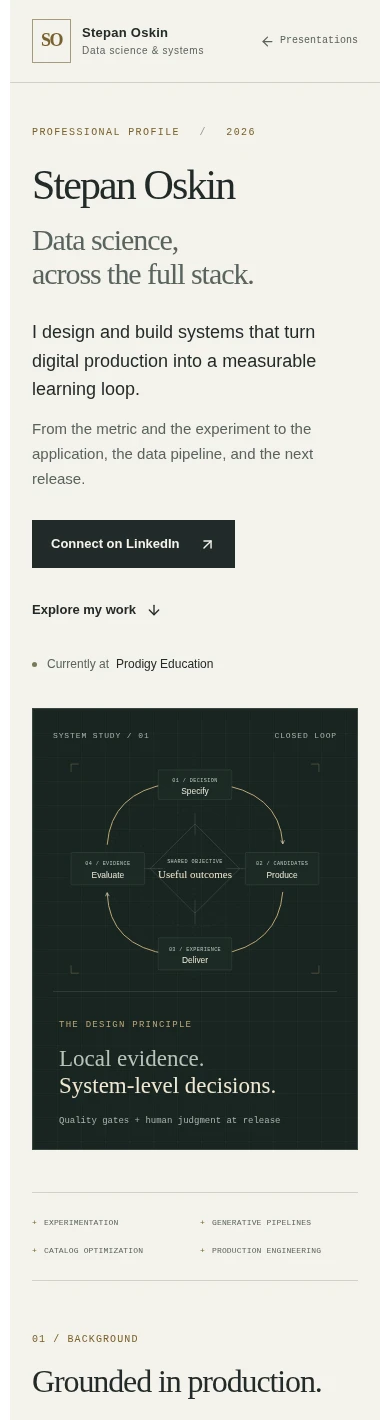
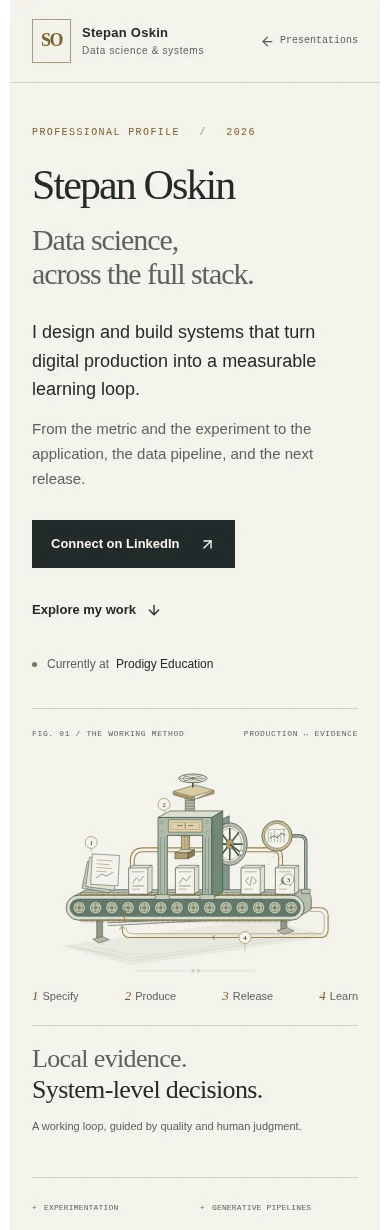
Replace profile flowchart with an engraved production illustration

diff --git a/apps/lab/components/production-systems/LoopBlueprint.tsx b/apps/lab/components/production-systems/LoopBlueprint.tsx
@@ -1,23 +1,149 @@
 import styles from "@/app/(stepanoskin)/stepanoskin/production-systems/profile.module.css";
 
+const ink = "#46574f";
+const paper = "#f4f2eb";
+const brass = "#9a8050";
+
+function CatalogLeaf({ x, y, variant = 0 }: { x: number; y: number; variant?: number }) {
+  return (
+    <g transform={`translate(${x} ${y})`}>
+      <path d="M0 0 8-5H43V43L35 48H0Z" fill="#deded0" stroke={ink} />
+      <path d="M0 0H35V48H0Z" fill={paper} stroke={ink} />
+      <path d="M35 0 43-5M35 48 43 43" fill="none" stroke={ink} />
+      <path d="M6 7H29M6 39H21" stroke={brass} />
+      {variant === 0 ? <path d="m7 29 7-11 6 6 8-10M7 33H28" fill="none" stroke={ink} /> :
+        variant === 1 ? <g fill="none" stroke={ink}><path d="m14 17-6 7 6 7m8-14 6 7-6 7M20 15 16 33" /></g> :
+          <g fill="#82988a" stroke={ink}><circle cx="18" cy="23" r="7" /><path d="M7 33 13 27M25 28 29 33" fill="none" /></g>}
+    </g>
+  );
+}
+
+function Bolt({ x, y }: { x: number; y: number }) {
+  return <g transform={`translate(${x} ${y})`}><circle r="2.2" fill={paper} stroke={ink} strokeWidth=".8" /><path d="m-1.2 1.2 2.4-2.4" stroke={ink} strokeWidth=".7" /></g>;
+}
+
 export default function LoopBlueprint() {
-  return <figure className={styles.blueprint} aria-labelledby="loop-caption">
-    <div className={styles.plateHeader}><span>System study / 01</span><span>Closed loop</span></div>
-    <svg className={styles.loopSvg} viewBox="0 0 440 380" role="img" aria-labelledby="loop-title loop-description">
-      <title id="loop-title">A production system with a feedback loop</title>
-      <desc id="loop-description">Specify, produce, deliver, and evaluate surround a shared objective. Evidence from use informs the next specification. Quality gates and human judgment govern release.</desc>
-      <defs><marker id="loop-arrow" viewBox="0 0 8 8" refX="6" refY="4" markerWidth="5" markerHeight="5" orient="auto-start-reverse"><path d="M1 1 7 4 1 7" fill="none" stroke="currentColor" /></marker></defs>
-      <g className={styles.guideLines} fill="none"><circle cx="220" cy="190" r="133" /><circle cx="220" cy="190" r="91" /><path d="M220 20V360M35 190H405" /></g>
-      <g className={styles.loopPaths} fill="none" markerEnd="url(#loop-arrow)"><path d="M249 58Q350 70 356 151" /><path d="M356 226Q349 309 257 323" /><path d="M181 323Q87 310 84 228" /><path d="M84 153Q90 72 181 58" /></g>
-      <g className={styles.centerLines} fill="none"><path d="M220 104V139M306 190H269M220 239V276M171 190H134" /><rect x="171" y="141" width="98" height="98" rx="2" transform="rotate(45 220 190)" /></g>
-      <text x="220" y="181" textAnchor="middle" className={styles.diagramSmall}>SHARED OBJECTIVE</text>
-      <text x="220" y="204" textAnchor="middle" className={styles.diagramCenter}>Useful outcomes</text>
-      <g className={styles.diagramNode}><rect x="163" y="37" width="114" height="46" rx="2" /><text x="220" y="56" textAnchor="middle" className={styles.diagramSmall}>01 / DECISION</text><text x="220" y="74" textAnchor="middle">Specify</text></g>
-      <g className={styles.diagramNode}><rect x="298" y="165" width="114" height="50" rx="2" /><text x="355" y="185" textAnchor="middle" className={styles.diagramSmall}>02 / CANDIDATES</text><text x="355" y="204" textAnchor="middle">Produce</text></g>
-      <g className={styles.diagramNode}><rect x="163" y="297" width="114" height="50" rx="2" /><text x="220" y="317" textAnchor="middle" className={styles.diagramSmall}>03 / EXPERIENCE</text><text x="220" y="336" textAnchor="middle">Deliver</text></g>
-      <g className={styles.diagramNode}><rect x="28" y="165" width="114" height="50" rx="2" /><text x="85" y="185" textAnchor="middle" className={styles.diagramSmall}>04 / EVIDENCE</text><text x="85" y="204" textAnchor="middle">Evaluate</text></g>
-      <g className={styles.diagramTick}><path d="M28 28h12M28 28v12M412 28h-12M412 28v12M28 352h12M28 352v-12M412 352h-12M412 352v-12" /></g>
-    </svg>
-    <figcaption id="loop-caption"><span className={styles.smallLabel}>The design principle</span><p>Local evidence.<br /><strong>System-level decisions.</strong></p><span className={styles.plateFootnote}>Quality gates + human judgment at release</span></figcaption>
-  </figure>;
+  return (
+    <figure className={styles.blueprint} aria-labelledby="loop-caption">
+      <div className={styles.plateHeader}><span>Fig. 01 / The working method</span><span>Production ↔ evidence</span></div>
+      <svg className={styles.loopSvg} viewBox="0 0 600 420" role="img" aria-labelledby="loop-title loop-description">
+        <title id="loop-title">An illustrated production and learning apparatus</title>
+        <desc id="loop-description">A printmaking-style machine carries individual content cards through production and review. An observation instrument records what happens after release; a brass return path carries that evidence back to the next specification. A conceptual metaphor, not a system architecture or a live result.</desc>
+        <defs>
+          <pattern id="profile-etch" width="5" height="5" patternUnits="userSpaceOnUse" patternTransform="rotate(30)"><path d="M0 0V5" stroke={ink} strokeWidth=".55" opacity=".3" /></pattern>
+          <pattern id="profile-rib" width="6" height="6" patternUnits="userSpaceOnUse"><path d="M1 0V6" stroke={ink} strokeWidth=".8" opacity=".5" /></pattern>
+        </defs>
+
+        {/* Ground and the rear return line establish a single, supported apparatus. */}
+        <path d="M52 351 183 387 553 333 421 302Z" fill="#e3e3d7" opacity=".65" />
+        <path d="M67 351 185 379 538 329M85 355 185 374 518 326M114 354 184 368" fill="none" stroke="#c3c8bb" strokeWidth=".7" />
+        <g fill="none" stroke={brass} strokeWidth="2">
+          <path d="M454 228V188Q454 178 444 178H205Q188 178 188 195V223" />
+          <path d="M461 229V187Q461 171 444 171H205Q181 171 181 195V222" />
+        </g>
+        <path d="M119 302V340L130 344V306M458 302V323L469 326V299" fill="#8f9b8a" stroke={ink} />
+        <path d="m112 339 18-5 12 6-19 6Zm339-16 19-5 12 6-19 6Z" fill="#b3b9a5" stroke={ink} />
+        <path d="M139 309 453 293M140 314 453 298" stroke={ink} strokeWidth="1.2" />
+
+        {/* Rear column, screw and flywheel: the press is a built object, not a node. */}
+        <path d="m343 259 20-9V112l-20 9Z" fill="#83988a" stroke={ink} strokeWidth="1.2" />
+        <path d="m343 259 20-9V112l-20 9Z" fill="url(#profile-etch)" />
+        <path d="M282 117V73l17-8v44" fill="#b6bba5" stroke={ink} />
+        <path d="M282 84H299M282 89H299M282 94H299M282 99H299M282 104H299" stroke={ink} strokeWidth=".8" />
+        <path d="m260 67 40-12 35 10-40 12Z" fill="#d9c99d" stroke={ink} />
+        <path d="M260 67V73L295 83V77M295 83 335 71V65" fill="#ad9566" stroke={ink} />
+        <path d="M296 60V43" stroke={ink} strokeWidth="3" />
+        <ellipse cx="296" cy="43" rx="26" ry="8" fill={paper} stroke={ink} strokeWidth="1.5" />
+        <ellipse cx="296" cy="43" rx="19" ry="5" fill="none" stroke={brass} />
+        <path d="m271 43 49 0M280 38 312 48M280 48 312 38" stroke={ink} />
+        <circle cx="296" cy="43" r="3" fill={brass} />
+        <g transform="translate(364 164)">
+          <ellipse rx="32" ry="39" fill="#b8bfa9" stroke={ink} strokeWidth="1.5" />
+          <ellipse rx="26" ry="33" fill={paper} stroke={ink} />
+          <ellipse rx="22" ry="29" fill="none" stroke={brass} />
+          <path d="M0-30V30M-24 0H24M-17-22 17 22M-17 22 17-22" stroke={ink} strokeWidth="3" />
+          <ellipse rx="7" ry="9" fill="#b49c65" stroke={ink} />
+          <path d="M0 0 21 16" stroke={ink} strokeWidth="3" /><circle cx="21" cy="16" r="4" fill={paper} stroke={ink} />
+        </g>
+
+        {/* Conveyor bed, its return run and rollers share the same geometry. */}
+        <path d="m77 260 23-12h391q23 0 23 18v18l-23 14H77Z" fill="#b8bfab" stroke={ink} strokeWidth="1.3" />
+        <path d="M86 258H478a23 23 0 0 1 0 46H86a23 23 0 0 1 0-46Z" fill="#d9decd" stroke={ink} strokeWidth="1.5" />
+        <path d="M86 265H478a16 16 0 0 1 0 32H86a16 16 0 0 1 0-32Z" fill="#63796d" stroke={ink} />
+        {Array.from({ length: 14 }, (_, i) => <g key={i} transform={`translate(${87 + i * 30} 281)`}>
+          <circle r="11.5" fill="#bcc5ad" stroke={ink} /><circle r="7.5" fill="none" stroke={ink} strokeWidth=".7" />
+          <path d="M-8 0H8M0-8V8" stroke={ink} strokeWidth=".7" /><circle r="2.5" fill={brass} stroke={ink} strokeWidth=".6" />
+        </g>)}
+        <path d="M88 258H476M88 304H476" stroke={brass} strokeWidth="2.5" />
+        <path d="M90 253H485M91 307H474" stroke={ink} strokeWidth=".65" />
+        {Array.from({ length: 38 }, (_, i) => <path key={i} d={`M${90 + i * 10} 254v4m0 46v3`} stroke={ink} strokeWidth=".6" />)}
+
+        {/* A specification becomes a family of versioned production units. */}
+        <g fill={paper} stroke={ink}>
+          <path d="m92 245 10-49 51 9-10 49Z" fill="#c4c9b4" />
+          <path d="m99 242 7-54 52 7-7 54Z" fill="#e6e4d5" />
+          <path d="m108 238 3-56 50 3-3 56Z" />
+          <path d="m119 193 29 2m-29 5 24 2m-25 5 29 2m-29 5 19 1" stroke={brass} />
+          <path d="m118 226 11-7 7 4 13-7" fill="none" />
+        </g>
+        <CatalogLeaf x={178} y={208} variant={0} />
+        <CatalogLeaf x={385} y={208} variant={1} />
+        <CatalogLeaf x={448} y={208} variant={2} />
+
+        {/* The open review gate keeps both the work and its quality boundary visible. */}
+        <path d="m232 115 22-12h97l-20 12Z" fill="#dce0cd" stroke={ink} strokeWidth="1.3" />
+        <path d="M232 115H331V264H314V148H249V264H232Z" fill="#afbcaa" stroke={ink} strokeWidth="1.5" />
+        <path d="m331 115 20-12v149l-20 12Z" fill="#718878" stroke={ink} strokeWidth="1.3" />
+        <path d="m331 115 20-12v149l-20 12Z" fill="url(#profile-etch)" />
+        <path d="M237 151V257M244 151V257M319 152V255M325 151V257" stroke={ink} strokeWidth=".7" />
+        <path d="M251 119H313V142H251Z" fill="#e0d2ad" stroke={ink} />
+        <path d="M256 124H308V137H256Z" fill="none" stroke={brass} strokeWidth=".7" />
+        <path d="M267 130H277m10 0h10M282 125v10" stroke={ink} strokeWidth="1.3" />
+        <path d="M275 149H290V180H275Z" fill="#bca473" stroke={ink} />
+        <path d="M278 150V178M284 150V178" stroke={paper} strokeWidth=".8" />
+        <path d="m263 180 12-6h24l-12 6Z" fill="#e1d4b2" stroke={ink} />
+        <path d="M263 180H287V191H263Z" fill="#b39c6e" stroke={ink} />
+        <path d="m287 180 12-6v11l-12 6Z" fill="#8c784f" stroke={ink} />
+        <CatalogLeaf x={264} y={208} variant={0} />
+        <path d="M227 257H253V266H227Zm82 0h27v9h-27Z" fill="#c6cbb7" stroke={ink} />
+        {[{x:239,y:124},{x:239,y:142},{x:322,y:124},{x:322,y:142},{x:238,y:250},{x:322,y:250}].map((point, i) => <Bolt key={i} {...point} />)}
+
+        {/* A measuring lens observes released units; its trace returns to the brief. */}
+        <path d="M504 251V161Q504 149 492 149H454" fill="none" stroke={ink} strokeWidth="6" />
+        <path d="M504 251V161Q504 149 492 149H454" fill="none" stroke="#aebbab" strokeWidth="3" />
+        <path d="M496 247H512V255H496Z" fill="#bac3b1" stroke={ink} />
+        <g transform="translate(451 149)">
+          <circle r="28" fill="#d1be8c" stroke={ink} strokeWidth="1.4" />
+          <circle r="23" fill={paper} stroke={ink} />
+          <path d="M-16 12V-12H16M-11 12V-7M-5 12V-10M1 12V-3M7 12V-7M13 12V-14" fill="none" stroke="#8c9e8f" strokeWidth="1.2" />
+          <path d="M-13 4-6 0 1 3 8-5 14-2" fill="none" stroke={ink} strokeWidth="1.5" />
+          <circle r="1.5" cx="14" cy="-2" fill={brass} />
+        </g>
+        <path d="m447 180-12 22m19-21 10 18" fill="none" stroke={brass} strokeDasharray="2 4" />
+        <g fill="none" stroke={brass}>
+          <path d="M511 281h19q15 0 15 15v25q0 15-15 15H181q-15 0-15-15v-4" strokeWidth="2" />
+          <path d="M511 288h16q11 0 11 11v19q0 11-11 11H185q-12 0-12-12" strokeWidth="1" />
+          <path d="m171 321-5-7-5 7M337 332l-6 4 6 4" strokeWidth="1.5" />
+        </g>
+        <path d="M170 309V289" stroke={brass} strokeWidth="2" />
+        <circle cx="170" cy="289" r="3" fill={brass} stroke={ink} />
+        <g fill={paper} stroke={brass} strokeWidth="1.2">
+          <circle cx="109" cy="161" r="11" /><circle cx="243" cy="91" r="11" /><circle cx="472" cy="229" r="10" /><circle cx="392" cy="336" r="11" />
+        </g>
+        <g className={styles.plateNumbers} textAnchor="middle">
+          <text x="109" y="165">1</text><text x="243" y="95">2</text><text x="472" y="233">3</text><text x="392" y="340">4</text>
+        </g>
+        <path d="M109 173V179M244 103V110M392 348V361" stroke={brass} strokeWidth=".8" />
+        <path d="M188 397H410" stroke="#c7c8b9" strokeWidth=".8" />
+        <path d="m294 394 5 3-5 3m10-6 5 3-5 3" fill="none" stroke={brass} strokeWidth=".8" />
+      </svg>
+      <ol className={styles.plateLegend} aria-label="The learning loop">
+        <li><span>1</span>Specify</li><li><span>2</span>Produce</li><li><span>3</span>Release</li><li><span>4</span>Learn</li>
+      </ol>
+      <figcaption id="loop-caption">
+        <p>Local evidence.<br /><strong>System-level decisions.</strong></p>
+        <span className={styles.plateFootnote}>A working loop, guided by quality and human judgment.</span>
+      </figcaption>
+    </figure>
+  );
 }

diff --git a/apps/lab/app/(stepanoskin)/stepanoskin/production-systems/profile.module.css b/apps/lab/app/(stepanoskin)/stepanoskin/production-systems/profile.module.css
@@ -49,22 +49,18 @@
 .currentRole { display: flex; align-items: center; gap: 7px; flex-wrap: wrap; font-size: 12px; color: var(--muted); margin-top: 33px; }
 .currentRole > span { width: 5px; height: 5px; border-radius: 50%; background: #777958; margin-right: 3px; }
 .currentRole strong { color: var(--ink); font-weight: 500; }
-.blueprint { background-color: var(--dark); background-image: linear-gradient(#b6cbb807 1px, transparent 1px), linear-gradient(90deg, #b6cbb807 1px, transparent 1px); background-size: 24px 24px; color: var(--light-ink); border: 1px solid #394740; padding: 22px 22px 25px; position: relative; }
-.plateHeader { display: flex; justify-content: space-between; gap: 12px; font-family: var(--mono); color: #a9b4a9; font-size: 9px; text-transform: uppercase; letter-spacing: .11em; }
-.loopSvg { display: block; width: 100%; height: auto; margin: 4px 0 0; }
-.guideLines { stroke: #c5cdb518; stroke-dasharray: 3 5; }
-.loopPaths { color: #c2ab73; stroke: currentColor; stroke-width: 1.5; }
-.centerLines { stroke: #a9b5a344; stroke-width: 1; }
-.diagramSmall { font-family: var(--mono); font-size: 8px; letter-spacing: .6px; fill: #b8c4b7; }
-.diagramCenter { font-family: Georgia, serif; font-size: 17px; fill: #f0e7cd; }
-.diagramNode rect { fill: #1c2a25; stroke: #7e8e7444; }
-.diagramNode > text:not(.diagramSmall) { fill: #ede9d9; font-size: 13px; }
-.diagramTick { stroke: #b8a16f77; stroke-width: 1; fill: none; }
-.blueprint figcaption { border-top: 1px solid #a0b2982b; padding: 22px 6px 0; }
-.blueprint figcaption > .smallLabel { color: #bca775; font-size: 9px; }
-.blueprint figcaption p { font-family: Georgia, serif; font-size: 25px; line-height: 1.2; margin-top: 8px; color: #b8c4b7; }
-.blueprint figcaption strong { font-weight: 400; color: #efe8d2; }
-.plateFootnote { display: block; font-family: var(--mono); font-size: 9px; color: #a9b4a9; margin-top: 17px; }
+/* The opening plate shares the paper and ink of the editorial surface. */
+.blueprint { color: var(--ink); min-width: 0; position: relative; padding: 16px 0 0; border-top: 1px solid var(--line); }
+.plateHeader { display: flex; justify-content: space-between; flex-wrap: wrap; gap: 6px 16px; font-family: var(--mono); color: var(--muted); font-size: 9px; text-transform: uppercase; letter-spacing: .08em; }
+.loopSvg { display: block; width: 100%; height: auto; margin: 18px 0 2px; }
+.plateNumbers { font-family: Georgia, serif; font-size: 13px; fill: var(--ink); }
+.plateLegend { display: flex; justify-content: space-between; gap: 8px; list-style: none; padding: 0 12px 20px; margin: 0; }
+.plateLegend li { display: flex; align-items: baseline; gap: 6px; color: var(--muted); font-size: 11px; }
+.plateLegend span { color: var(--brass); font-family: Georgia, serif; font-size: 13px; font-style: italic; }
+.blueprint figcaption { border-top: 1px solid var(--line); padding: 23px 0 0; }
+.blueprint figcaption p { font-family: Georgia, serif; font-size: 29px; letter-spacing: -.025em; line-height: 1.2; color: var(--muted); }
+.blueprint figcaption strong { font-weight: 400; color: var(--ink); }
+.plateFootnote { display: block; font-size: 11px; color: var(--muted); margin-top: 13px; }
 .focusStrip { display: flex; justify-content: space-between; flex-wrap: wrap; gap: 14px 20px; max-width: 1184px; margin: 0 auto; padding: 23px 0; border-block: 1px solid var(--line); font-family: var(--mono); font-size: 10px; text-transform: uppercase; letter-spacing: .09em; color: var(--muted); }
 .focusStrip span::before { content: "+"; color: var(--brass); margin-right: 13px; }
 .section { max-width: 1280px; margin: auto; padding: 76px 48px; display: grid; grid-template-columns: minmax(190px, 1fr) minmax(0, 2.4fr); gap: 68px; }
@@ -170,7 +166,9 @@
   .intro { font-size: 17px; }
   .heroDetail { font-size: 14px; }
   .heroActions { gap: 10px; }
-  .blueprint { padding: 18px 12px 22px; }
+  .blueprint { padding-top: 14px; }
+  .plateLegend { padding-inline: 0; gap: 6px; }
+  .plateLegend li { font-size: 10px; gap: 4px; }
   .plateHeader { font-size: 8px; }
   .blueprint figcaption p { font-size: 22px; }
   .focusStrip { margin-inline: 28px; font-size: 9px; }
@@ -196,12 +194,13 @@
   .heroDetail { font-size: 15px; }
   .heroActions { gap: 20px; }
   .currentRole { margin-top: 23px; }
-  .blueprint { padding: 20px; max-width: 470px; width: 100%; margin: auto; }
-  .loopSvg { max-height: 305px; }
+  .blueprint { padding: 18px 0 0; max-width: 500px; width: 100%; margin: auto; }
+  .loopSvg { margin-top: 15px; }
+  .plateLegend { padding-bottom: 18px; }
+  .plateLegend li { font-size: 11px; }
   .blueprint figcaption { display: block; padding-top: 17px; }
-  .blueprint figcaption > .smallLabel { grid-column: 1 / -1; }
-  .blueprint figcaption p { font-size: 23px; margin: 9px 0 0; }
-  .plateFootnote { font-size: 9px; margin-top: 14px; }
+  .blueprint figcaption p { font-size: 26px; }
+  .plateFootnote { font-size: 11px; margin-top: 12px; }
   .focusStrip { margin-inline: 22px; display: grid; grid-template-columns: 1fr 1fr; gap: 15px 10px; font-size: 8px; letter-spacing: .02em; }
   .focusStrip span::before { margin-right: 7px; }
   .section { grid-template-columns: 1fr; gap: 25px; padding: 43px 22px; }

diff --git a/docs/brands/lab/production-systems-profile.md b/docs/brands/lab/production-systems-profile.md
@@ -20,8 +20,8 @@ work; capabilities across measurement, generation, implementation, and operation
 an interactive comparison of four application domains; experimental method;
 production process; primary sources and LinkedIn/print actions.
 
-Visual direction: warm paper, graphite, restrained brass, SO monogram, and a quiet
-technical drawing. No ambient motion, sound, image generation, or new fonts. This
+Visual direction: warm paper, graphite, restrained brass, SO monogram, and an engraved
+production apparatus on the same paper surface. No ambient motion, sound, image generation, or new fonts. This
 follows the shared design/performance instructions provided from the main checkout.
 Server-render the document. Limit client JavaScript to the scenario comparison and
 profile actions. Preserve keyboard navigation, 44px controls, visible focus, English
@@ -106,5 +106,40 @@ Review captures (production rendering):
 
 ![Phone profile](production-systems-evidence/mobile.webp)
 
-Cold observation: LCP 516 ms; CLS 0.000; document encoded size 14,910 bytes; resource transfer 298,718 bytes.
-Warm observation: LCP 192 ms; CLS 0.000; document encoded size 14,910 bytes; resource transfer 27,822 bytes.
+Original implementation, before illustration revision — cold observation: LCP 516 ms; CLS 0.000; document encoded size 14,910 bytes; resource transfer 298,718 bytes.
+Original implementation — warm observation: LCP 192 ms; CLS 0.000; document encoded size 14,910 bytes; resource transfer 27,822 bytes.
+
+
+## Opening illustration revision · 3 October 2026
+
+The owner rejected the dark flowchart and asked that Sanctuary and Loopforge
+inform its replacement. Reviewed Sanctuary's approved opening and design system,
+and the Loopforge presentation's current overview and conveyor. Adopt their
+composed, materially coherent illustration approach within this profile's existing
+paper, graphite, sage and brass palette. Do not transplant their dark backgrounds,
+fantasy setting or factory artwork.
+
+The new original SVG depicts a supported conveyor, content cards, a screw press
+and review gate, an observation instrument and a brass evidence-return path.
+The illustration is a conceptual metaphor, not employer architecture or measured
+results. A four-step HTML legend remains readable on phones; title/description
+provide an accessible explanation. It is server-rendered, static and self-contained,
+with no raster downloads, fonts, dependencies or added client JavaScript. Profile
+copy, navigation, other presentations and the two-page print layout are unchanged.
+
+Follow-up branch: `codex/profile-illustration`, based on the merged profile at
+`1c5fc70`, then integrated with the Loopforge merge at `ccb2f67`. Scope: the illustration component, its scoped styling and this record
+with refreshed desktop/phone captures. Worktree remains isolated from active
+Sanctuary and Loopforge work.
+
+Verification on the final production build:
+- Full required CI after integration: 37 suites / 168 tests, asset validation, TypeScript and build
+  passed; scoped ESLint and diff whitespace checks passed.
+- Browser review at 320, 390, 768 and 1440 CSS pixels: no page overflow or browser
+  errors, and no reported axe WCAG A/AA or best-practice violations.
+- Existing keyboard, touch, four-scenario selection, six-language menu round trip,
+  source anchors, no-JavaScript reading and reduced-motion checks passed.
+- The new SVG is present without JavaScript; no motion is introduced. Print
+  continues to produce two A4 pages. The images above show the revised version.
+- Unthrottled local production observation: cold LCP 496 ms, warm LCP 148 ms,
+  CLS 0.000. These are laboratory observations, not field-performance claims.
